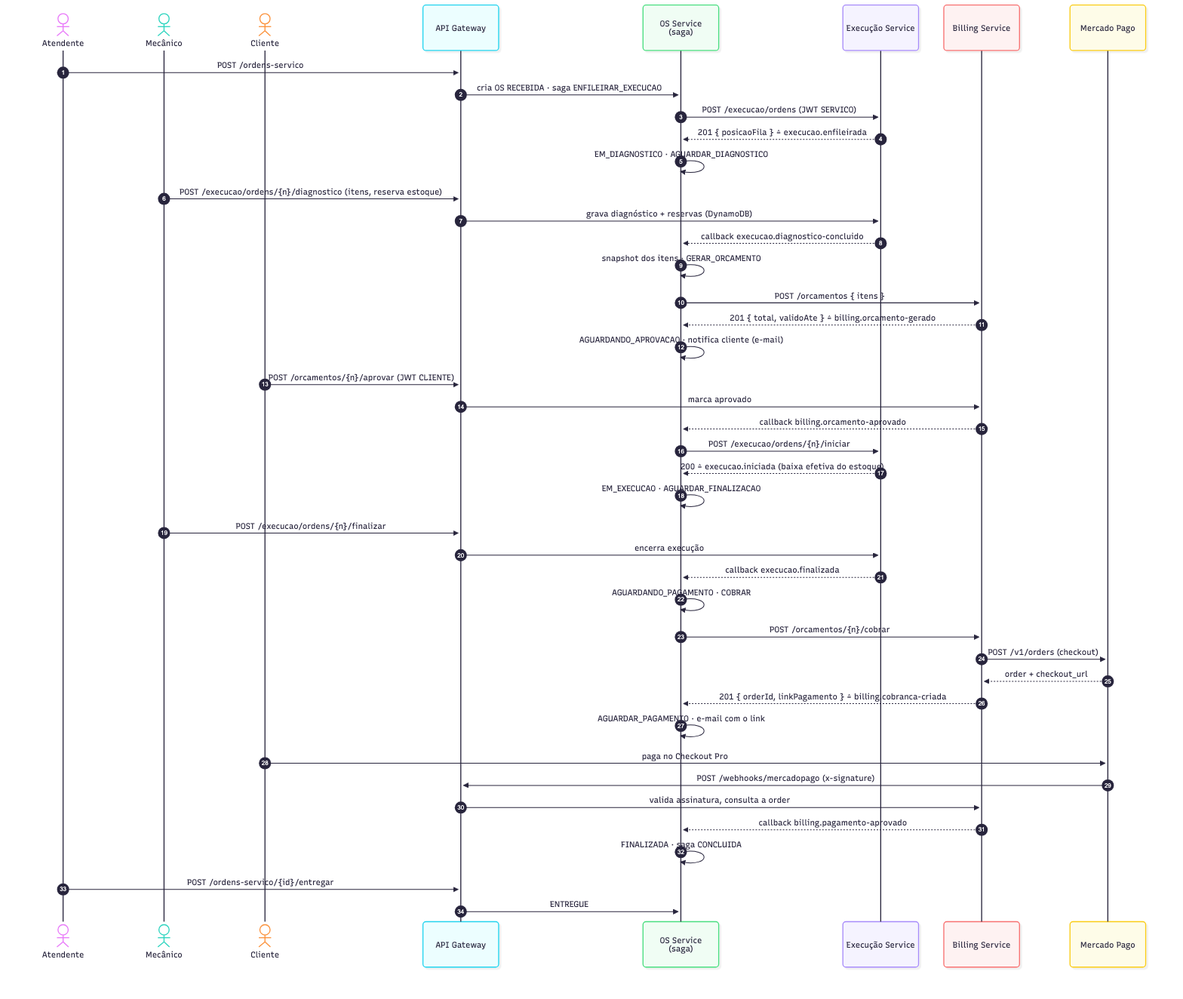
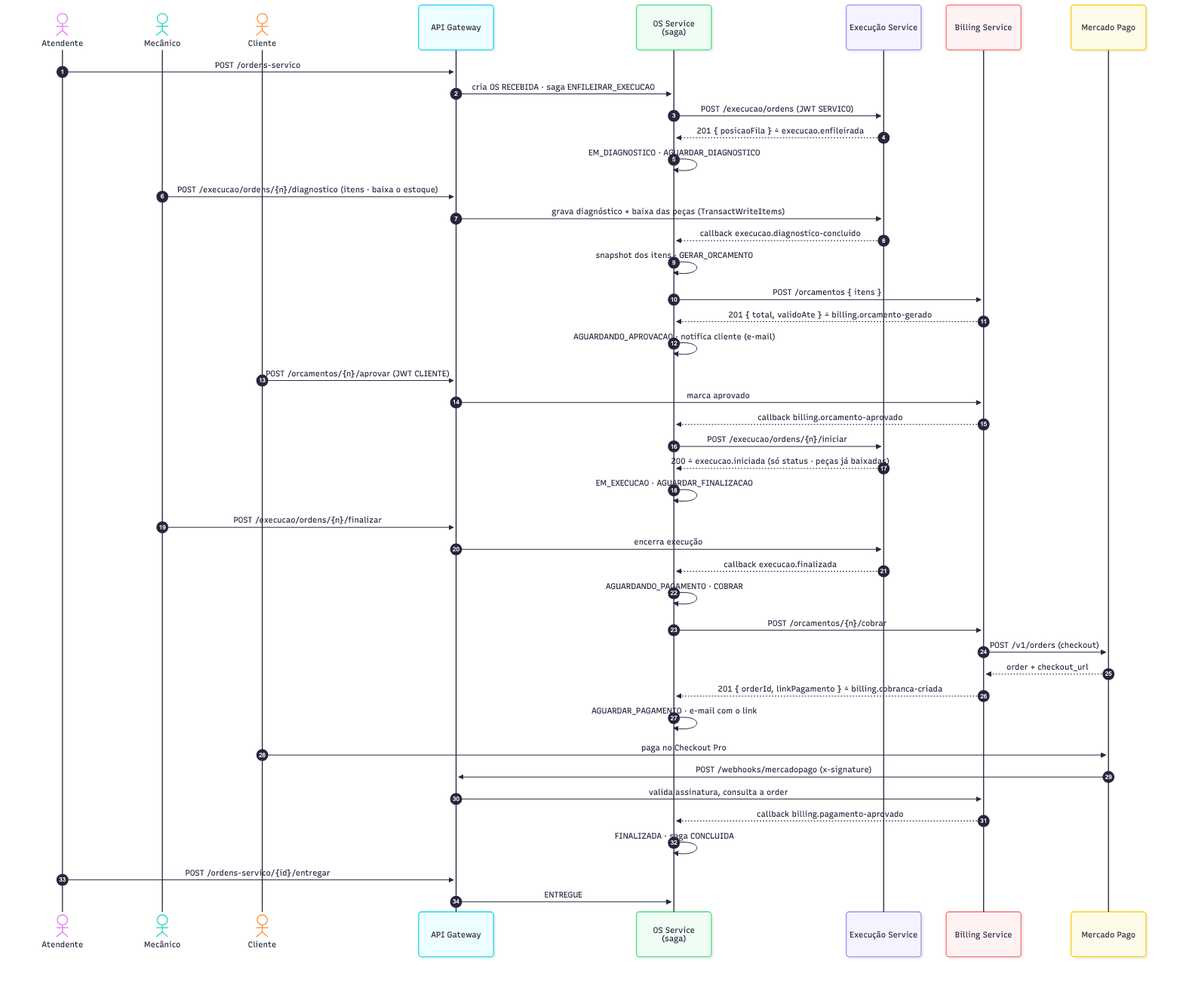
docs(fase4): contrato e RFC-0007 alinhados ao Execucao Service implementado
- baixa de estoque no fechamento do diagnostico (iniciar so muda status)
- DynamoDB com 4 tabelas oficina-* no lugar da single-table (revisao da RFC-0007)
- ADR-0014, US-F4-03/07, plano, dashboard e diagramas atualizados

diff --git a/docs/dashboard-fase-4.html b/docs/dashboard-fase-4.html
@@ -206,7 +206,7 @@
         <div><b>D1</b> 3 serviços: OS (atendimento + orquestrador), Billing (orçamento, pagamento, ledger), Execução (fila, diagnóstico, catálogo, estoque)</div>
         <div><b>D2</b> Saga orquestrada no OS Service, estado em <code>saga_os</code>, consultável por API</div>
         <div><b>D3</b> Comunicação entre serviços: HTTP direto + callbacks <code>POST /ordens-servico/{n}/eventos</code> (RFC-0008); SNS/SQS descartado em 03/11</div>
-        <div><b>D4</b> DynamoDB single-table na Execução</div>
+        <div><b>D4</b> DynamoDB na Execução: 4 tabelas <code>oficina-*</code> (rev. 09/11, RFC-0007)</div>
         <div><b>D5</b> Kit <code>@guilhermeqmaia/oficina-kit</code> no npm + template de serviço + cliente HTTP interno (<code>/http</code>, <code>Role.SERVICO</code>)</div>
         <div><b>D6</b> Confiabilidade: retry/backoff + idempotência (<code>numeroOS</code>, <code>id</code> do envelope) + <code>reprocessar</code> — sem outbox nem DLQ</div>
         <div><b>D7</b> SonarCloud com quality gate bloqueante</div>

diff --git a/docs/user-stories/f4-07-execucao-service.md b/docs/user-stories/f4-07-execucao-service.md
@@ -25,10 +25,10 @@ Sem fila, sem outbox, sem LocalStack.
 
 ## Criterios de Aceite
 
-- [ ] Modelo single-table: `EXECUCAO#<os>` (status da fila, mecanico, itens, timeline), `SERVICO#`/`PRODUTO#` (catalogo com preco), `ESTOQUE#<produto>` (saldo, reservas)
+- [ ] Modelo de dados no DynamoDB: **uma tabela por agregado** com prefixo `oficina-` (`execucoes`, `servicos`, `produtos`, `movimentacoes_estoque`), conforme a revisao de 09/11 da RFC-0007 (a single-table original foi substituida na implementacao)
 - [ ] `POST /execucao/ordens` (SERVICO; ≙ `execucao.enfileirar`) -> cria item na fila -> `201 { numeroOS, posicaoFila }` (≙ `execucao.enfileirada`); veiculo ja em execucao -> `409 { motivo }` (≙ `execucao.recusada`); idempotente por `numeroOS`
-- [ ] `POST /execucao/ordens/{numeroOS}/diagnostico` (MECANICO): grava mecanico, diagnostico e itens do catalogo (servicos/produtos) com **reserva de estoque** condicional `saldo - reservado >= qtd` e **precos congelados** -> callback `execucao.diagnostico-concluido` `{ numeroOS, mecanicoId, diagnostico, itens[] }` (`Item.servicoId` nos PRODUTOs). Rotas auxiliares da UI do mecanico (`atribuir`, `itens` incrementais) sao opcionais; o que vale para a saga e o callback
-- [ ] `POST /execucao/ordens/{numeroOS}/iniciar` (SERVICO; ≙ `execucao.iniciar`) -> baixa efetiva do estoque -> `200 { numeroOS }` (≙ `execucao.iniciada`); estoque insuficiente -> `409 { motivo }`; `DELETE /execucao/ordens/{numeroOS}` (SERVICO; ≙ `execucao.liberar-reservas`) -> tira da fila, aborta diagnostico, devolve reservas -> `200 { numeroOS }` (≙ `execucao.reservas-liberadas`; idempotente, `200` mesmo sem reservas)
+- [ ] `POST /execucao/ordens/{numeroOS}/diagnostico` (MECANICO): grava mecanico, diagnostico e itens do catalogo (servicos/produtos) com **baixa de estoque** transacional (`TransactWriteItems`, saldo nunca negativo; `409 { motivo }` ao mecanico se faltar peca) e **precos congelados** -> callback `execucao.diagnostico-concluido` `{ numeroOS, mecanicoId, diagnostico, itens[] }` (`Item.servicoId` nos PRODUTOs). Rotas auxiliares da UI do mecanico (`atribuir`, `itens` incrementais) sao opcionais; o que vale para a saga e o callback
+- [ ] `POST /execucao/ordens/{numeroOS}/iniciar` (SERVICO; ≙ `execucao.iniciar`) -> so muda o status (as pecas ja foram baixadas no diagnostico) -> `200 { numeroOS }` (≙ `execucao.iniciada`, idempotente); execucao fora de AGUARDANDO_APROVACAO -> `409 { motivo }`; `DELETE /execucao/ordens/{numeroOS}` (SERVICO; ≙ `execucao.liberar-reservas`) -> tira da fila, aborta diagnostico, devolve ao estoque o que foi baixado para a OS -> `200 { numeroOS }` (≙ `execucao.reservas-liberadas`; idempotente, `200` mesmo sem reservas)
 - [ ] `POST /execucao/ordens/{numeroOS}/finalizar` (MECANICO) -> callback `execucao.finalizada` `{ numeroOS, finalizadaEm }`; opcionalmente `POST /execucao/ordens/{numeroOS}/servicos/:id/concluir` e o ultimo servico concluido dispara o mesmo callback (policy da Fase 1)
 - [ ] CRUD de catalogo (`/catalogo/servicos`, `/catalogo/produtos`) e estoque (`/estoque/movimentacoes`, alerta de estoque baixo) com roles GESTOR/ESTOQUISTA
 - [ ] Callbacks ao OS Service via cliente HTTP do kit (`@guilhermeqmaia/oficina-kit/http`): JWT `SERVICO`, 3 tentativas com backoff, `x-correlation-id`/`traceparent`; `409` do OS -> reler e repetir; sem outbox/Streams/SNS
@@ -40,7 +40,7 @@ Conforme [`http-interno.md`](../contratos/http-interno.md). Prefixos `/execucao|
 | Metodo | Rota | Role | Corpo | Resposta |
 |---|---|---|---|---|
 | POST | `/execucao/ordens` | SERVICO | `{ numeroOS, veiculoId, descricaoProblema }` | `201 { numeroOS, posicaoFila }` ≙ `execucao.enfileirada` · `409 { motivo }` ≙ `execucao.recusada` (veiculo ja em execucao) |
-| POST | `/execucao/ordens/{numeroOS}/iniciar` | SERVICO | — | `200 { numeroOS }` ≙ `execucao.iniciada` (baixa efetiva do estoque) · `409 { motivo }` ≙ `execucao.recusada` (estoque insuficiente) |
+| POST | `/execucao/ordens/{numeroOS}/iniciar` | SERVICO | — | `200 { numeroOS }` ≙ `execucao.iniciada` (so status; pecas ja baixadas) · `409 { motivo }` ≙ `execucao.recusada` (nao aguarda aprovacao) |
 | DELETE | `/execucao/ordens/{numeroOS}` | SERVICO | `{ motivo }` | `200 { numeroOS }` ≙ `execucao.reservas-liberadas` (idempotente) |
 | POST | `/execucao/ordens/{numeroOS}/diagnostico` | MECANICO | `{ diagnostico, itens[] }` (`Item`: `tipo`, `referenciaId`, `quantidade`; `servicoId` nos PRODUTOs) | `200` execucao com itens/precos congelados e reservas; dispara callback `execucao.diagnostico-concluido` |
 | POST | `/execucao/ordens/{numeroOS}/finalizar` | MECANICO | — | `200`; dispara callback `execucao.finalizada` |
@@ -60,18 +60,16 @@ JWT `SERVICO` (`sub: execucao-service`) emitido localmente com `mintServiceToken
 
 ## O que salva no banco
 
-DynamoDB **`oficina-execucao`** (single-table; tabela e IAM proprios — nenhum outro servico acessa):
+DynamoDB, **quatro tabelas** com prefixo `oficina-` (tabelas e IAM proprios — nenhum outro servico acessa; revisao de 09/11, implementacao do PR #5):
 
-| PK | SK | Item |
-|---|---|---|
-| `EXECUCAO#<numeroOS>` | `META` | status da fila (`ENFILEIRADA`, `EM_DIAGNOSTICO`, `DIAGNOSTICADA`, `EM_EXECUCAO`, `FINALIZADA`, `CANCELADA`), `veiculoId`, `mecanicoId`, `descricaoProblema`, `diagnostico`, `posicaoFila`, timestamps |
-| `EXECUCAO#<numeroOS>` | `ITEM#<n>` | item do diagnostico: `tipo`, `referenciaId`, `nome`, `quantidade`, `precoUnitario` (congelado), `servicoId`, `concluido` |
-| `EXECUCAO#<numeroOS>` | `EVENTO#<timestamp>` | timeline (enfileirada, diagnostico, iniciada, servico concluido, finalizada, reservas liberadas) |
-| `SERVICO#<id>` / `PRODUTO#<id>` | `META` | catalogo com preco vigente, ativo/inativo |
-| `ESTOQUE#<produtoId>` | `META` | `saldo`, `reservado`, `minimo` (conditional writes `saldo - reservado >= qtd`) |
-| `ESTOQUE#<produtoId>` | `MOV#<timestamp>` | movimentacao (entrada, reserva, baixa, liberacao) com `numeroOS` quando houver |
+| Tabela | Chave | Indices | Item |
+|---|---|---|---|
+| `execucoes` | `osId` (= numeroOS) | — | `veiculoId`, `descricaoProblema`, `mecanicoId`, `status` (`NA_FILA`, `ATRIBUIDA`, `EM_DIAGNOSTICO`, `AGUARDANDO_APROVACAO`, `EM_EXECUCAO`, `EXECUTADA`, `CANCELADA`), `diagnostico`, `servicos[]` com as pecas embutidas e precos congelados, `estoqueBaixado`, `finalizadaEm`, `versao` (lock otimista) |
+| `servicos` | `servicoId` | — | catalogo de servicos com preco vigente |
+| `produtos` | `produtoId` | — | catalogo de pecas: `sku`, `nome`, `precoUnitario`, `quantidadeEstoque` (conditional update na baixa) |
+| `movimentacoes_estoque` | `movimentacaoId` | `produtoId-data-index`, `osId-data-index` | `tipo` (`ENTRADA`, `BAIXA`, `DEVOLUCAO`), `quantidade`, `osId`, `servicoId`, `data` (auditoria; a devolucao e o liquido do historico da OS) |
 
-GSI por `veiculoId` (recusa de veiculo ja em execucao) e por status da fila. **Sem itens `MSG#`** (nao ha outbox nem dedup de fila; a idempotencia dos comandos e por `numeroOS` no proprio `META`).
+Baixa, devolucao e entrada usam um unico `TransactWriteItems`. Idempotencia dos comandos por `numeroOS` no proprio item de `execucoes`. Follow-up: GSI em `execucoes` por `status` (fila) e por `veiculoId` para trocar os `Scan` por `Query`.
 
 ## Dependencias
 

diff --git a/docs/arquitetura/arquitetura-fase4.md b/docs/arquitetura/arquitetura-fase4.md
@@ -60,7 +60,7 @@ flowchart TB
             VPCE["VPC Gateway Endpoint<br/>DynamoDB (política por tabela)"]
         end
 
-        DYNAMO[("DynamoDB<br/>tabela única da Execução<br/>PK/SK + GSI1 + GSI2")]
+        DYNAMO[("DynamoDB · 4 tabelas oficina-*<br/>execucoes · servicos · produtos<br/>movimentacoes_estoque")]
     end
 
     ADMIN & CLI -- "Bearer JWT" --> GW
@@ -94,7 +94,7 @@ Datadog** no cluster recolhe traces, logs e métricas dos três serviços.
 |---|---|---|---|
 | OS Service | `soat-fiap-oficina-os-service` (este, hub de docs) | RDS próprio, Postgres `oficina_mecanica` | clientes, veículos, OS com snapshot dos itens, `saga_os`, `processed_messages`, notificações, usuários |
 | Billing Service | `soat-fiap-oficina-billing-service` | RDS próprio, Postgres `oficina_billing` | orçamentos e itens, aprovação/rejeição, cobranças (order do Mercado Pago), eventos de webhook |
-| Execução Service | `soat-fiap-oficina-execucao-service` | DynamoDB (tabela única, via VPC Endpoint) | fila de execução, diagnóstico, catálogo de serviços/produtos, reservas e movimentos de estoque |
+| Execução Service | `soat-fiap-oficina-execucao-service` | DynamoDB (4 tabelas `oficina-*`, via VPC Endpoint) | fila de execução e diagnóstico (`execucoes`), catálogo (`servicos`, `produtos` com saldo), auditoria de estoque (`movimentacoes_estoque`) |
 
 ---
 
@@ -132,12 +132,12 @@ flowchart TB
             RDSBI[("RDS do Billing<br/>Multi-AZ · oficina_billing")]
         end
 
-        VPCE["VPC Gateway Endpoint · DynamoDB<br/>nas route tables privadas · política só para a tabela oficina-execucao"]
+        VPCE["VPC Gateway Endpoint · DynamoDB<br/>nas route tables privadas · política só para as tabelas oficina-*"]
 
         CP["EKS control plane (gerenciado pela AWS)<br/>endpoint público + privado"]
     end
 
-    DYN[("DynamoDB<br/>tabela oficina-execucao")]
+    DYN[("DynamoDB<br/>tabelas oficina-*")]
     subgraph REG["Serviços regionais (endpoints públicos, via NAT)"]
         ECR["ECR"]
         SM["Secrets Manager · SSM"]
@@ -161,7 +161,7 @@ flowchart TB
 Regras de segurança que importam:
 
 - **RDS**: uma instância por serviço (ADR-0014), cada uma com o próprio security group aceitando 5432 só dos nodes (e da Lambda, no caso do OS), nunca da internet (`publicly_accessible = false`). O segredo de cada serviço só contém o próprio host.
-- **DynamoDB** só é alcançado pelo VPC Gateway Endpoint, cuja política permite apenas a tabela `oficina-execucao` e seus índices; o tráfego nunca sai para a internet.
+- **DynamoDB** só é alcançado pelo VPC Gateway Endpoint, cuja política permite apenas as tabelas da Execução (prefixo `oficina-*`) e seus índices; o tráfego nunca sai para a internet.
 - **NLB** é `internal = true`; o target group aponta para os **nodes** (NodePort), por isso não precisa de AWS Load Balancer Controller.
 - **VPC Link** tem SG próprio com saída apenas para o NLB/nodes.
 - A **Lambda** fica na VPC para chegar ao RDS; sai para o Secrets Manager pelo NAT.
@@ -190,7 +190,7 @@ flowchart LR
     MP["Mercado Pago<br/>Checkout Pro"]
 
     OS["<b>OS Service</b> · orquestrador da saga · Postgres<br/><br/>RECEBIDA → EM_DIAGNOSTICO → AGUARDANDO_APROVACAO<br/>→ EM_EXECUCAO → AGUARDANDO_PAGAMENTO<br/>→ FINALIZADA → ENTREGUE"]
-    EX["<b>Execução Service</b> · DynamoDB<br/><br/>fila · diagnóstico · reserva e baixa<br/>de estoque · catálogo · finalização"]
+    EX["<b>Execução Service</b> · DynamoDB<br/><br/>fila · diagnóstico com baixa<br/>de estoque · catálogo · finalização"]
     BI["<b>Billing Service</b> · Postgres<br/><br/>orçamento · aprovação/rejeição<br/>· cobrança · webhook de pagamento"]
 
     AT -- "⓪ abre a OS · ⑩ entrega" --> OS
@@ -260,8 +260,8 @@ sequenceDiagram
     EX-->>OS: 201 { posicaoFila } ≙ execucao.enfileirada
     OS->>OS: EM_DIAGNOSTICO · AGUARDAR_DIAGNOSTICO
 
-    ME->>GW: POST /execucao/ordens/{n}/diagnostico (itens, reserva estoque)
-    GW->>EX: grava diagnóstico + reservas (DynamoDB)
+    ME->>GW: POST /execucao/ordens/{n}/diagnostico (itens · baixa o estoque)
+    GW->>EX: grava diagnóstico + baixa das peças (TransactWriteItems)
     EX-->>OS: callback execucao.diagnostico-concluido
     OS->>OS: snapshot dos itens · GERAR_ORCAMENTO
     OS->>BI: POST /orcamentos { itens }
@@ -272,7 +272,7 @@ sequenceDiagram
     GW->>BI: marca aprovado
     BI-->>OS: callback billing.orcamento-aprovado
     OS->>EX: POST /execucao/ordens/{n}/iniciar
-    EX-->>OS: 200 ≙ execucao.iniciada (baixa efetiva do estoque)
+    EX-->>OS: 200 ≙ execucao.iniciada (só status · peças já baixadas)
     OS->>OS: EM_EXECUCAO · AGUARDAR_FINALIZACAO
 
     ME->>GW: POST /execucao/ordens/{n}/finalizar
@@ -317,7 +317,7 @@ sequenceDiagram
     OS->>OS: saga COMPENSANDO (OS ainda AGUARDANDO_APROVACAO)
     par compensações
         OS->>EX: DELETE /execucao/ordens/{n} { motivo }
-        EX-->>OS: 200 ≙ execucao.reservas-liberadas (tira da fila, devolve reservas)
+        EX-->>OS: 200 ≙ execucao.reservas-liberadas (tira da fila, devolve as peças baixadas)
     and
         OS->>BI: DELETE /orcamentos/{n} { motivo }
         BI-->>OS: 200 ≙ billing.orcamento-cancelado
@@ -427,7 +427,7 @@ flowchart LR
 | Três serviços e o que ficou em cada um | [RFC-0004](rfcs/) |
 | Saga orquestrada no OS Service | [RFC-0005](rfcs/), [US-F4-10](../user-stories/f4-10-saga-orquestrada.md), [US-F4-11](../user-stories/f4-11-compensacoes-rollback.md) |
 | HTTP direto + callbacks no lugar de SNS/SQS | [RFC-0008](rfcs/RFC-0008-comunicacao-http-entre-servicos.md), [`http-interno.md`](../contratos/http-interno.md) |
-| DynamoDB tabela única na Execução | [RFC-0007](rfcs/) |
+| DynamoDB na Execução (4 tabelas desde 09/11) | [RFC-0007](rfcs/RFC-0007-banco-nosql.md) |
 | Kit compartilhado e cliente HTTP interno | [ADR-0010](adr/) |
 | Mercado Pago via API de Orders, cobrança após a execução | [ADR-0012](adr/ADR-0012-pagamento-mercado-pago.md) |
 | Gateway único com NLB e um listener por serviço | [ADR-0013](adr/) |

diff --git a/docs/plano-execucao-fase-4.md b/docs/plano-execucao-fase-4.md
@@ -158,7 +158,7 @@ AWS, [Padrão Saga — Prescriptive Guidance](https://docs.aws.amazon.com/pt_br/
 | D1 | **Divisão dos microsserviços** | **3 serviços**: **OS Service** (Atendimento: Cliente, Veículo, OrdemDeServico, histórico, Notificação, **orquestrador da saga**), **Billing Service** (Orçamento, Pagamento/Mercado Pago, ledger), **Execução Service** (fila de execução, diagnóstico, **Catálogo + Estoque**) | Segue os exemplos do enunciado e nossos bounded contexts do Event Storming. Catálogo/Estoque vão com Execução porque é o mecânico quem adiciona peças e reserva estoque no diagnóstico — separar em 5 repos dobraria o custo de infra sem ganho didático (RFC-0004). *iFood: Event Storming primeiro.* |
 | D2 | **Saga** | **Orquestrada**, orquestrador no OS Service, estado persistido em `saga_os` e consultável por API | O fluxo tem 6+ passos e compensações cruzadas; orquestração torna o estado **explícito, observável e testável** (o vídeo exige "rastreamento"). Coreografia com 3 participantes seria viável, mas as compensações ficariam implícitas — exatamente a dor relatada pela Uber. Notificação fica **coreografada** (só assina fatos) para mostrar os dois estilos (RFC-0005). |
 | D3 | **Comunicação entre serviços** | **HTTP direto + callbacks** (revisada em 03/11): o orquestrador chama Execução/Billing por HTTP síncrono (timeout 5 s, 3 tentativas com backoff) e os participantes avisam o OS por `POST /ordens-servico/{numero}/eventos`; JWT de serviço (`role: SERVICO`); contrato em `docs/contratos/http-interno.md`. **SNS/SQS descartado em 03/11** (era a escolha original, RFC-0006) | Execução e Billing nascem como APIs REST comuns, sem publisher/consumer/outbox/DLQ/LocalStack; depuração com `curl` e traces HTTP; o enunciado deixa o meio de comunicação aberto — o que é avaliado é a saga com compensação. Três serviços no mesmo cluster tornam o acoplamento temporal aceitável. (RFC-0008) |
-| D4 | **NoSQL** | **DynamoDB** no Execução Service (single-table: execução da OS com timeline, catálogo, estoque com *conditional writes*) | Serverless, free tier, Streams para o outbox; a "execução" é naturalmente um documento com linha do tempo. *iFood e Uber usam DynamoDB para exatamente isso.* (RFC-0007) |
+| D4 | **NoSQL** | **DynamoDB** no Execução Service (4 tabelas `oficina-*` desde 09/11: execuções, catálogo, estoque com *conditional writes* e auditoria) | Serverless, free tier, Streams para o outbox; a "execução" é naturalmente um documento com linha do tempo. *iFood e Uber usam DynamoDB para exatamente isso.* (RFC-0007) |
 | D5 | **Código comum** | Pacote **`@guilhermeqmaia/oficina-kit`** (npm) + **template de serviço**: auth resource server (+ `Role.SERVICO`), logs, métricas, **cliente HTTP interno** com retry/JWT de serviço/correlação (`/http`, US-F4-18); `messaging`/outbox ficam no pacote como descontinuados | Três serviços iguais no que não é domínio. *Mercado Livre (Fury) e Nubank ("every service is similar").* (ADR-0010) |
 | D6 | **Confiabilidade** | **Retry/backoff** no cliente HTTP do kit + **idempotência** (comandos por `numeroOS`, callbacks por `id` do envelope em `processed_messages`) + **`reprocessar`** (`POST /admin/sagas/:numero/reprocessar`) quando o retry esgota — **sem outbox** (revisada em 03/11) | Falha de plataforma → retry (recuperação para frente); retry esgotado → saga parada → alerta `oficina_os_sagas_paradas` → reprocessar. Nunca editar estado à mão. A idempotência continua sendo a regra de ouro de Nubank/Uber. (RFC-0008; ADR-0009 histórica) |
 | D7 | **Qualidade no CI** | **SonarCloud** (grátis para repos públicos) com quality gate bloqueante | "SonarQube ou similar" sem hospedar nada; badge = evidência de cobertura exigida. (ADR-0011) |
@@ -238,7 +238,7 @@ RECEBIDA → EM_DIAGNOSTICO → AGUARDANDO_APROVACAO → EM_EXECUCAO → AGUARDA
 | Enfileirar recusado (`409` em `POST /execucao/ordens` — veículo já em execução) | — | CANCELADA |
 | Orçamento rejeitado pelo cliente (callback `billing.orcamento-rejeitado`) | `DELETE /execucao/ordens/{n}` (`execucao.liberar-reservas`) | CANCELADA |
 | Timeout de aprovação | `DELETE /orcamentos/{n}` (`billing.cancelar-orcamento`) · `DELETE /execucao/ordens/{n}` | CANCELADA |
-| Falha ao iniciar execução (`409` em `.../iniciar` — estoque insuficiente; aprovado, não pago, não executado) | `DELETE /orcamentos/{n}` · `DELETE /execucao/ordens/{n}` (sem estorno) | CANCELADA |
+| Falha ao iniciar execução (`409` em `.../iniciar` — execução fora de AGUARDANDO_APROVACAO; estoque insuficiente é tratado no diagnóstico, antes do orçamento) | `DELETE /orcamentos/{n}` · `DELETE /execucao/ordens/{n}` (sem estorno) | CANCELADA |
 | Pagamento recusado / em atraso (após a execução) | **nenhuma** — serviço já executado | permanece AGUARDANDO_PAGAMENTO (pendência: alerta + `reprocessar` repete `POST /orcamentos/{n}/cobrar`) |
 
 Os `DELETE` são idempotentes (`200` mesmo sem nada a desfazer) e a saga fica `COMPENSANDO` até as

diff --git a/docs/contratos/http-interno.md b/docs/contratos/http-interno.md
@@ -39,14 +39,14 @@ para o OS Service, quando depende de uma pessoa (mecânico, cliente) ou do Merca
 | Comando (vocabulário) | Endpoint na Execução | Corpo | Resposta imediata = evento | Falha de negócio |
 |---|---|---|---|---|
 | `execucao.enfileirar` | `POST /execucao/ordens` | `{ numeroOS, veiculoId, descricaoProblema }` | `201 { numeroOS, posicaoFila }` ≙ `execucao.enfileirada` | `409 { motivo }` ≙ `execucao.recusada` (veículo já em execução) |
-| `execucao.iniciar` | `POST /execucao/ordens/{numeroOS}/iniciar` | — | `200 { numeroOS }` ≙ `execucao.iniciada` (baixa efetiva do estoque) | `409 { motivo }` ≙ `execucao.recusada` (estoque insuficiente) |
+| `execucao.iniciar` | `POST /execucao/ordens/{numeroOS}/iniciar` | — | `200 { numeroOS }` ≙ `execucao.iniciada` (só muda o status: as peças já foram baixadas no diagnóstico; idempotente) | `409 { motivo }` ≙ `execucao.recusada` (execução não está aguardando aprovação) |
 | `execucao.liberar-reservas` | `DELETE /execucao/ordens/{numeroOS}` | `{ motivo }` | `200 { numeroOS }` ≙ `execucao.reservas-liberadas` (tira da fila, aborta diagnóstico, devolve reservas) | — (idempotente; `200` mesmo sem reservas) |
 
 **Callbacks da Execução para o OS** (ações do mecânico na API/UI da Execução):
 
 | Ação do mecânico na Execução | Callback `type` | `data` |
 |---|---|---|
-| `POST /execucao/ordens/{numeroOS}/diagnostico` (serviços + peças, reserva estoque) | `execucao.diagnostico-concluido` | `{ numeroOS, mecanicoId, diagnostico, itens[] }` (`Item`: `tipo`, `referenciaId`, `nome`, `quantidade`, `precoUnitario`, `servicoId` nos PRODUTOs) |
+| `POST /execucao/ordens/{numeroOS}/diagnostico` (serviços + peças; **baixa o estoque** numa transação, `409 { motivo }` ao mecânico se faltar peça) | `execucao.diagnostico-concluido` | `{ numeroOS, mecanicoId, diagnostico, itens[] }` (`Item`: `tipo`, `referenciaId`, `nome`, `quantidade`, `precoUnitario`, `servicoId` nos PRODUTOs) |
 | `POST /execucao/ordens/{numeroOS}/finalizar` | `execucao.finalizada` | `{ numeroOS, finalizadaEm }` |
 
 ## OS Service → Billing Service
@@ -76,7 +76,7 @@ para o OS Service, quando depende de uma pessoa (mecânico, cliente) ou do Merca
 
 1. `POST /ordens-servico` (ATENDENTE) → OS cria a OS e chama `POST /execucao/ordens` → `201` ≙ `execucao.enfileirada` → OS `EM_DIAGNOSTICO`.
 2. Mecânico diagnostica na Execução → callback `execucao.diagnostico-concluido` → OS grava o snapshot e chama `POST /orcamentos` → `201` ≙ `billing.orcamento-gerado` → OS `AGUARDANDO_APROVACAO`; notifica o cliente.
-3. Cliente aprova no Billing → callback `billing.orcamento-aprovado` → OS chama `POST /execucao/ordens/{n}/iniciar` → `200` ≙ `execucao.iniciada` → OS `EM_EXECUCAO`.
+3. Cliente aprova no Billing → callback `billing.orcamento-aprovado` → OS chama `POST /execucao/ordens/{n}/iniciar` → `200` ≙ `execucao.iniciada` → OS `EM_EXECUCAO`. (Revisão de 09/11: a baixa de estoque já aconteceu no fechamento do diagnóstico; o `DELETE` devolve o que foi baixado.)
 4. Mecânico finaliza → callback `execucao.finalizada` → OS `AGUARDANDO_PAGAMENTO` e chama `POST /orcamentos/{n}/cobrar` → `201` ≙ `billing.cobranca-criada` → notifica o cliente com o link.
 5. Cliente paga no Mercado Pago → webhook no Billing → callback `billing.pagamento-aprovado` → OS `FINALIZADA`.
 6. Atendente entrega (`POST /ordens-servico/{id}/entregar`) → `ENTREGUE`.

diff --git a/docs/user-stories/f4-03-bancos-por-servico.md b/docs/user-stories/f4-03-bancos-por-servico.md
@@ -19,8 +19,8 @@ outro. Regra aplicada por **credenciais e grants**, nao por convencao.
 - [x] **Postgres:** bancos `oficina_mecanica` (OS) e `oficina_billing` com usuarios exclusivos (sem grant cruzado); decisao instancia unica vs duas instancias RDS registrada (custo) e parametrizada por variavel Terraform
 - [ ] **Revisao 04/11 (ADR-0014):** **uma instancia RDS por servico** — a instancia atual fica com o OS Service, `service_databases` cria uma instancia propria por servico (SG e segredo proprios); bootstrap SQL por Job removido
 - [x] `DATABASE_URL` de cada servico em segredo proprio no Secrets Manager (`oficina/os/database-url`, `oficina/billing/database-url`)
-- [x] **DynamoDB:** tabela `oficina-execucao` (single-table: `PK`/`SK`, GSI por status da fila e por mecanico), TTL para itens de deduplicacao, PITR ligado
-- [ ] **Revisao 04/11 (ADR-0014):** **VPC Gateway Endpoint** para o DynamoDB nas route tables privadas (stage `cluster/` do infra-k8s), politica restrita a tabela `oficina-execucao` e indices; trafego sem NAT
+- [x] **DynamoDB:** tabela `oficina-execucao` (single-table) — **substituida em 09/11** pelas 4 tabelas `oficina-*` do infra-db #12 (PITR ligado; sem TTL/Streams, que so serviam ao outbox)
+- [ ] **Revisao 04/11 (ADR-0014):** **VPC Gateway Endpoint** para o DynamoDB nas route tables privadas (stage `cluster/` do infra-k8s), politica restrita ao prefixo `oficina-*` (infra-k8s #36; antes a tabela `oficina-execucao` e indices; trafego sem NAT
 - [x] DynamoDB Streams habilitado (base do outbox da Execucao)
 - [x] Lambda de auth continua lendo apenas o que precisa (cliente por CPF) do banco do OS Service — documentado como excecao consciente ou migrado para API
 - [x] Teste negativo documentado: credencial do Billing tentando ler o banco do OS -> permission denied (com instancias separadas: o host do outro servico nem consta no segredo e o SG so aceita os nodes)

diff --git a/docs/arquitetura/rfcs/RFC-0007-banco-nosql.md b/docs/arquitetura/rfcs/RFC-0007-banco-nosql.md
@@ -57,6 +57,24 @@ de pagamentos em **DynamoDB** (uma linha por entidade, ~1 KB).
 
 GSIs: `GSI1` (status da fila → OS), `GSI2` (mecânico → OS). PITR ligado; Streams `NEW_AND_OLD_IMAGES`.
 
+## Revisão de 09/11/2026 — uma tabela por agregado
+
+A implementação do Execução Service (PR #5 do repositório `soat-fiap-oficina-execucao-service`,
+infra em `soat-fiap-oficina-infra-db` #12) trocou a single-table por **quatro tabelas** com
+prefixo `oficina-`: `execucoes` (1 item por OS, serviços e peças embutidos, lock otimista por
+`versao`), `servicos`, `produtos` (saldo com update condicional) e `movimentacoes_estoque`
+(auditoria, GSIs `produtoId-data-index` e `osId-data-index`). A decisão pela Opção A (DynamoDB)
+permanece; muda só a modelagem:
+
+- Sem outbox nem dedup de fila (RFC-0008), os itens `MSG#` e os Streams deixaram de ter uso; a
+  única transação que importa (baixa de estoque + auditoria) é um `TransactWriteItems` entre
+  `produtos` e `movimentacoes_estoque`, que funciona igual entre tabelas.
+- Uma tabela por agregado é mais fácil de ler no console e de explicar na entrega; o custo é
+  o mesmo (`PAY_PER_REQUEST`).
+- A política do VPC Gateway Endpoint ([ADR-0014](../adr/ADR-0014-instancia-rds-por-servico-e-endpoint-dynamodb.md))
+  passa a liberar o prefixo `oficina-*` (infra-k8s #36).
+- Pendência: GSIs em `execucoes` por status e por `veiculoId` (hoje `Scan`).
+
 ## Consequências
 
 - O Execução Service **não usa Prisma**; usa o SDK v3 (`@aws-sdk/lib-dynamodb`) com repositórios por agregado.

diff --git a/docs/arquitetura/adr/ADR-0014-instancia-rds-por-servico-e-endpoint-dynamodb.md b/docs/arquitetura/adr/ADR-0014-instancia-rds-por-servico-e-endpoint-dynamodb.md
@@ -26,7 +26,7 @@ privada. O time questionou a assimetria: por que o NoSQL fica "fora" da VPC?
    existir: o usuário mestre de cada instância é o usuário do serviço.
 2. **VPC Gateway Endpoint para o DynamoDB** no stage `cluster/` do repo
    `infra-k8s`, nas route tables das subnets privadas, com **política do
-   endpoint** restrita à tabela `oficina-execucao` e seus índices. O tráfego da
+   endpoint** restrita às tabelas da Execução (prefixo `oficina-*`, revisão de 09/11 da RFC-0007) e seus índices. O tráfego da
    Execução para o DynamoDB não passa mais pelo NAT nem pela internet.
 
 ## Consequências
